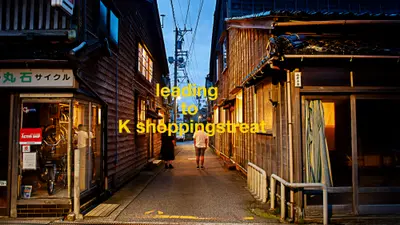
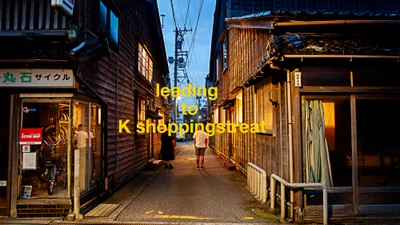
Update project contents

Changed region(s): [[0.66, 0.2178, 0.69, 0.2489]]

diff --git a/project.html b/project.html
@@ -873,10 +873,10 @@
         <div class="project-intro">
             <div class="intro-item">
                 <div class="intro-image">
-                    <picture><source srcset="images/_responsive/02project/project1/00_2025_streetview_webinfo-400.webp 400w, images/_responsive/02project/project1/00_2025_streetview_webinfo-960.webp 960w" type="image/webp"><img src="images/02project/project1/00_2025_streetview_webinfo.webp" srcset="images/_responsive/02project/project1/00_2025_streetview_webinfo-400.webp 400w, images/_responsive/02project/project1/00_2025_streetview_webinfo-960.webp 960w" sizes="(max-width: 768px) 100vw, (max-width: 1200px) 500px, 400px" alt="An alley to K Market Street" loading="lazy" decoding="async"></picture>
+                    <picture><source srcset="images/_responsive/02project/project1/00_2025_streetview_webinfo-400.webp 400w, images/_responsive/02project/project1/00_2025_streetview_webinfo-960.webp 960w" type="image/webp"><img src="images/02project/project1/00_2025_streetview_webinfo.webp" srcset="images/_responsive/02project/project1/00_2025_streetview_webinfo-400.webp 400w, images/_responsive/02project/project1/00_2025_streetview_webinfo-960.webp 960w" sizes="(max-width: 768px) 100vw, (max-width: 1200px) 500px, 400px" alt="the alley to K-shopping street" loading="lazy" decoding="async"></picture>
                 </div>
                 <div class="intro-content">
-                    <h2 class="intro-title">An alley to K Market Street</h2>
+                    <h2 class="intro-title">the alley to K-shopping street</h2>
                 </div>
                 <div class="image-caption">
                     2020<br>
@@ -904,15 +904,15 @@
         <section class="project-section">
             <div class="project-preview">
                 <div class="project-preview-content">
-                    <h2 class="project-title">An alley to K Market Street</h2>
+                    <h2 class="project-title">the alley to K-shopping street</h2>
                     
                     <div class="project-slider">
                         <div class="project-slides">
                             <div class="project-slide active">
-                                <picture><source srcset="images/_responsive/02project/project1/00_2025_streetview_webinfo-400.webp 400w, images/_responsive/02project/project1/00_2025_streetview_webinfo-960.webp 960w, images/_responsive/02project/project1/00_2025_streetview_webinfo-1600.webp 1600w" type="image/webp"><img src="images/02project/project1/00_2025_streetview_webinfo.webp" srcset="images/_responsive/02project/project1/00_2025_streetview_webinfo-400.webp 400w, images/_responsive/02project/project1/00_2025_streetview_webinfo-960.webp 960w, images/_responsive/02project/project1/00_2025_streetview_webinfo-1600.webp 1600w" sizes="(max-width: 768px) 100vw, (max-width: 1200px) 960px, 1600px" alt="Project Image 1" loading="lazy" decoding="async"></picture>
+                                <picture><source srcset="images/_responsive/02installation/02_038_leading_to_K_shoppingstreat_KANAZAWA/2543_basic_16x9_IMG_8254-400.webp 400w, images/_responsive/02installation/02_038_leading_to_K_shoppingstreat_KANAZAWA/2543_basic_16x9_IMG_8254-960.webp 960w, images/_responsive/02installation/02_038_leading_to_K_shoppingstreat_KANAZAWA/2543_basic_16x9_IMG_8254-1600.webp 1600w" type="image/webp"><img src="images/02installation/02_038_leading_to_K_shoppingstreat_KANAZAWA/2543_basic_16x9_IMG_8254.webp" srcset="images/_responsive/02installation/02_038_leading_to_K_shoppingstreat_KANAZAWA/2543_basic_16x9_IMG_8254-400.webp 400w, images/_responsive/02installation/02_038_leading_to_K_shoppingstreat_KANAZAWA/2543_basic_16x9_IMG_8254-960.webp 960w, images/_responsive/02installation/02_038_leading_to_K_shoppingstreat_KANAZAWA/2543_basic_16x9_IMG_8254-1600.webp 1600w" sizes="(max-width: 768px) 100vw, (max-width: 1200px) 960px, 1600px" alt="Project Image 1" loading="lazy" decoding="async"></picture>
                             </div>
                             <div class="project-slide">
-                                <picture><source srcset="images/_responsive/02project/project1/01_2523_webpic_IMG_8254-400.webp 400w, images/_responsive/02project/project1/01_2523_webpic_IMG_8254-960.webp 960w, images/_responsive/02project/project1/01_2523_webpic_IMG_8254-1600.webp 1600w" type="image/webp"><img src="images/02project/project1/01_2523_webpic_IMG_8254.webp" srcset="images/_responsive/02project/project1/01_2523_webpic_IMG_8254-400.webp 400w, images/_responsive/02project/project1/01_2523_webpic_IMG_8254-960.webp 960w, images/_responsive/02project/project1/01_2523_webpic_IMG_8254-1600.webp 1600w" sizes="(max-width: 768px) 100vw, (max-width: 1200px) 960px, 1600px" alt="Project Image 2" loading="lazy" decoding="async"></picture>
+                                <picture><source srcset="images/_responsive/02project/project1/00_2025_streetview_webinfo-400.webp 400w, images/_responsive/02project/project1/00_2025_streetview_webinfo-960.webp 960w, images/_responsive/02project/project1/00_2025_streetview_webinfo-1600.webp 1600w" type="image/webp"><img src="images/02project/project1/00_2025_streetview_webinfo.webp" srcset="images/_responsive/02project/project1/00_2025_streetview_webinfo-400.webp 400w, images/_responsive/02project/project1/00_2025_streetview_webinfo-960.webp 960w, images/_responsive/02project/project1/00_2025_streetview_webinfo-1600.webp 1600w" sizes="(max-width: 768px) 100vw, (max-width: 1200px) 960px, 1600px" alt="Project Image 2" loading="lazy" decoding="async"></picture>
                             </div>
                             
                         </div>

diff --git a/installation/leading-to-k-shoppingstreat-kanazawa.html b/installation/leading-to-k-shoppingstreat-kanazawa.html
@@ -1,7 +1,7 @@
 <!DOCTYPE html><html lang="en"><head>
     <meta charset="UTF-8">
     <meta name="viewport" content="width=device-width, initial-scale=1.0">
-    <title>leading to K shoppingstreat - KIYOMI+TETSUHIRO UOZUMI</title>
+    <title>the alley to K-shopping street - KIYOMI+TETSUHIRO UOZUMI</title>
     <link rel="stylesheet" href="../css/style.css">
     <link rel="stylesheet" href="../css/lightbox-fix.css">
 <style>
@@ -413,14 +413,14 @@
 
     <!-- Main Content -->
     <div class="project-header">
-            <picture><source srcset="../images/_responsive/02installation/02_038_leading_to_K_shoppingstreat_KANAZAWA/00_2540_basic_16x9_IMG_8254-400.webp 400w, ../images/_responsive/02installation/02_038_leading_to_K_shoppingstreat_KANAZAWA/00_2540_basic_16x9_IMG_8254-960.webp 960w" type="image/webp"><img src="../images/02installation/02_038_leading_to_K_shoppingstreat_KANAZAWA/00_2540_basic_16x9_IMG_8254.webp" srcset="../images/_responsive/02installation/02_038_leading_to_K_shoppingstreat_KANAZAWA/00_2540_basic_16x9_IMG_8254-400.webp 400w, ../images/_responsive/02installation/02_038_leading_to_K_shoppingstreat_KANAZAWA/00_2540_basic_16x9_IMG_8254-960.webp 960w" sizes="(max-width: 768px) 100vw, 100vw" alt="leading to K shoppingstreat kanazawa" loading="lazy" decoding="async"></picture>
+            <picture><source srcset="../images/_responsive/02installation/02_038_leading_to_K_shoppingstreat_KANAZAWA/2543_basic_16x9_IMG_8254-400.webp 400w, ../images/_responsive/02installation/02_038_leading_to_K_shoppingstreat_KANAZAWA/2543_basic_16x9_IMG_8254-960.webp 960w, ../images/_responsive/02installation/02_038_leading_to_K_shoppingstreat_KANAZAWA/2543_basic_16x9_IMG_8254-1600.webp 1600w" type="image/webp"><img src="../images/02installation/02_038_leading_to_K_shoppingstreat_KANAZAWA/2543_basic_16x9_IMG_8254.webp" srcset="../images/_responsive/02installation/02_038_leading_to_K_shoppingstreat_KANAZAWA/2543_basic_16x9_IMG_8254-400.webp 400w, ../images/_responsive/02installation/02_038_leading_to_K_shoppingstreat_KANAZAWA/2543_basic_16x9_IMG_8254-960.webp 960w, ../images/_responsive/02installation/02_038_leading_to_K_shoppingstreat_KANAZAWA/2543_basic_16x9_IMG_8254-1600.webp 1600w" sizes="(max-width: 768px) 100vw, 100vw" alt="the alley to K-shopping street kanazawa" loading="lazy" decoding="async"></picture>
         </div>
 
     <main>
         
         <div class="project-content">
             <div class="project-info">
-                <h1 class="project-title">leading to K shoppingstreat</h1>
+                <h1 class="project-title">the alley to K-shopping street</h1>
                 <div class="project-info">
                     <p class="project-year">2020</p>
                     <p class="project-location">KANAIWA ONO ART PROJECT, Artist in Residence, 21st Century Museum of Contemporary Art, Kanazawa JAPAN</p>
@@ -446,7 +446,7 @@ Through the interplay of light, shadow, and projection, the installation creates
 
                 <div class="gallery-grid">
                     <div class="gallery-item">
-                        <picture><source srcset="../images/_responsive/02installation/02_038_leading_to_K_shoppingstreat_KANAZAWA/00_2540_basic_16x9_IMG_8254-400.webp 400w, ../images/_responsive/02installation/02_038_leading_to_K_shoppingstreat_KANAZAWA/00_2540_basic_16x9_IMG_8254-960.webp 960w" type="image/webp"><img src="../images/02installation/02_038_leading_to_K_shoppingstreat_KANAZAWA/00_2540_basic_16x9_IMG_8254.webp" srcset="../images/_responsive/02installation/02_038_leading_to_K_shoppingstreat_KANAZAWA/00_2540_basic_16x9_IMG_8254-400.webp 400w, ../images/_responsive/02installation/02_038_leading_to_K_shoppingstreat_KANAZAWA/00_2540_basic_16x9_IMG_8254-960.webp 960w" sizes="(max-width: 768px) 100vw, (max-width: 1200px) 33vw, 250px" alt="leading to K shoppingstreat kanazawa detail" loading="lazy" fetchpriority="high" decoding="async" style="cursor:pointer"></picture>
+                        <picture><source srcset="../images/_responsive/02installation/02_038_leading_to_K_shoppingstreat_KANAZAWA/2543_basic_16x9_IMG_8254-400.webp 400w, ../images/_responsive/02installation/02_038_leading_to_K_shoppingstreat_KANAZAWA/2543_basic_16x9_IMG_8254-960.webp 960w" type="image/webp"><img src="../images/02installation/02_038_leading_to_K_shoppingstreat_KANAZAWA/2543_basic_16x9_IMG_8254.webp" srcset="../images/_responsive/02installation/02_038_leading_to_K_shoppingstreat_KANAZAWA/2543_basic_16x9_IMG_8254-400.webp 400w, ../images/_responsive/02installation/02_038_leading_to_K_shoppingstreat_KANAZAWA/2543_basic_16x9_IMG_8254-960.webp 960w" sizes="(max-width: 768px) 100vw, (max-width: 1200px) 33vw, 250px" alt="the alley to K-shopping street kanazawa detail" loading="lazy" fetchpriority="high" decoding="async" style="cursor:pointer"></picture>
                     </div>
                 </div>
             </div>
@@ -487,7 +487,7 @@ Through the interplay of light, shadow, and projection, the installation creates
     
     <script>
         const images = [
-            "../images/02installation/02_038_leading_to_K_shoppingstreat_KANAZAWA/00_2540_basic_16x9_IMG_8254.webp"
+            "../images/02installation/02_038_leading_to_K_shoppingstreat_KANAZAWA/2543_basic_16x9_IMG_8254.webp"
         ];
 
                 let currentImageIndex = 0;

diff --git a/installation/chasing-a-little-past-kanazawa.html b/installation/chasing-a-little-past-kanazawa.html
@@ -936,7 +936,7 @@
 
                 <div class="gallery-grid">
                     <div class="gallery-item">
-                        <picture><source srcset="../images/_responsive/02installation/02_036_chasing_a_little_past_KANAZAWA/00_2540_basic_16x9_18EA_kioku_MG_8228_installation_000-400.webp 400w, ../images/_responsive/02installation/02_036_chasing_a_little_past_KANAZAWA/00_2540_basic_16x9_18EA_kioku_MG_8228_installation_000-960.webp 960w" type="image/webp"><img src="../images/02installation/02_036_chasing_a_little_past_KANAZAWA/00_2540_basic_16x9_18EA_kioku_MG_8228_installation_000.webp" srcset="../images/_responsive/02installation/02_036_chasing_a_little_past_KANAZAWA/00_2540_basic_16x9_18EA_kioku_MG_8228_installation_000-400.webp 400w, ../images/_responsive/02installation/02_036_chasing_a_little_past_KANAZAWA/00_2540_basic_16x9_18EA_kioku_MG_8228_installation_000-960.webp 960w" sizes="(max-width: 768px) 100vw, (max-width: 1200px) 33vw, 250px" alt="chasing little pasts kanazawa detail" loading="lazy" fetchpriority="high" decoding="async" style="cursor:pointer"></picture>
+                        <picture><source srcset="../images/_responsive/02installation/02_036_chasing_a_little_past_KANAZAWA/2540_basic_18EA_kioku_MG_8228_installation_000-400.webp 400w, ../images/_responsive/02installation/02_036_chasing_a_little_past_KANAZAWA/2540_basic_18EA_kioku_MG_8228_installation_000-960.webp 960w" type="image/webp"><img src="../images/02installation/02_036_chasing_a_little_past_KANAZAWA/2540_basic_18EA_kioku_MG_8228_installation_000.webp" srcset="../images/_responsive/02installation/02_036_chasing_a_little_past_KANAZAWA/2540_basic_18EA_kioku_MG_8228_installation_000-400.webp 400w, ../images/_responsive/02installation/02_036_chasing_a_little_past_KANAZAWA/2540_basic_18EA_kioku_MG_8228_installation_000-960.webp 960w" sizes="(max-width: 768px) 100vw, (max-width: 1200px) 33vw, 250px" alt="chasing little pasts kanazawa detail" loading="lazy" fetchpriority="high" decoding="async" style="cursor:pointer"></picture>
                     </div>
                     <div class="gallery-item">
                         <picture><source srcset="../images/_responsive/02installation/02_036_chasing_a_little_past_KANAZAWA/ipad_18EA_kioku_MG_8221-400.webp 400w, ../images/_responsive/02installation/02_036_chasing_a_little_past_KANAZAWA/ipad_18EA_kioku_MG_8221-960.webp 960w" type="image/webp"><img src="../images/02installation/02_036_chasing_a_little_past_KANAZAWA/ipad_18EA_kioku_MG_8221.webp" srcset="../images/_responsive/02installation/02_036_chasing_a_little_past_KANAZAWA/ipad_18EA_kioku_MG_8221-400.webp 400w, ../images/_responsive/02installation/02_036_chasing_a_little_past_KANAZAWA/ipad_18EA_kioku_MG_8221-960.webp 960w" sizes="(max-width: 768px) 100vw, (max-width: 1200px) 33vw, 250px" alt="chasing little pasts kanazawa detail" loading="lazy" decoding="async" style="cursor:pointer"></picture>
@@ -1024,7 +1024,7 @@
     <script src="../js/other-installations.js"></script>
     <script>
         const images = [
-            "../images/02installation/02_036_chasing_a_little_past_KANAZAWA/00_2540_basic_16x9_18EA_kioku_MG_8228_installation_000.webp",
+            "../images/02installation/02_036_chasing_a_little_past_KANAZAWA/2540_basic_18EA_kioku_MG_8228_installation_000.webp",
             "../images/02installation/02_036_chasing_a_little_past_KANAZAWA/ipad_18EA_kioku_MG_8221.webp",
             "../images/02installation/02_036_chasing_a_little_past_KANAZAWA/ipad_18EA_kioku_MG_8226.webp",
             "../images/02installation/02_036_chasing_a_little_past_KANAZAWA/ipad_18EA_kioku_MG_8228.webp",

diff --git a/installation.html b/installation.html
@@ -434,10 +434,10 @@
                     <!-- 2020 -->
                     <a href="installation/leading-to-k-shoppingstreat-kanazawa.html" class="installation-item">
                         <div class="installation-image">
-                            <picture><source srcset="images/_responsive/02installation/02_038_leading_to_K_shoppingstreat_KANAZAWA/00_2540_basic_16x9_IMG_8254-400.webp 400w, images/_responsive/02installation/02_038_leading_to_K_shoppingstreat_KANAZAWA/00_2540_basic_16x9_IMG_8254-960.webp 960w" type="image/webp"><img src="images/02installation/02_038_leading_to_K_shoppingstreat_KANAZAWA/00_2540_basic_16x9_IMG_8254.webp" srcset="images/_responsive/02installation/02_038_leading_to_K_shoppingstreat_KANAZAWA/00_2540_basic_16x9_IMG_8254-400.webp 400w, images/_responsive/02installation/02_038_leading_to_K_shoppingstreat_KANAZAWA/00_2540_basic_16x9_IMG_8254-960.webp 960w" sizes="(max-width: 768px) 50vw, 500px" alt="leading to K shoppingstreat KANAZAWA" loading="lazy" fetchpriority="high" decoding="async"></picture>
+                            <picture><source srcset="images/_responsive/02installation/02_038_leading_to_K_shoppingstreat_KANAZAWA/2543_basic_16x9_IMG_8254-400.webp 400w, images/_responsive/02installation/02_038_leading_to_K_shoppingstreat_KANAZAWA/2543_basic_16x9_IMG_8254-960.webp 960w" type="image/webp"><img src="images/02installation/02_038_leading_to_K_shoppingstreat_KANAZAWA/2543_basic_16x9_IMG_8254.webp" srcset="images/_responsive/02installation/02_038_leading_to_K_shoppingstreat_KANAZAWA/2543_basic_16x9_IMG_8254-400.webp 400w, images/_responsive/02installation/02_038_leading_to_K_shoppingstreat_KANAZAWA/2543_basic_16x9_IMG_8254-960.webp 960w" sizes="(max-width: 768px) 50vw, 500px" alt="the alley to K-shopping street KANAZAWA" loading="lazy" fetchpriority="high" decoding="async"></picture>
                         </div>
                         <div class="installation-content">
-                            <h2 class="installation-title">leading to K shoppingstreat</h2>
+                            <h2 class="installation-title">the alley to K-shopping street</h2>
                             <p class="installation-year">2020</p>
                             <p class="installation-location">KANAIWA ONO ART PROJECT, Artist in Residence, 21st Century Museum of Contemporary Art, Kanazawa JAPAN</p>
                         </div>

diff --git a/js/installation-data.js b/js/installation-data.js
@@ -10,8 +10,8 @@
 const installationData = [
     {
         id: "leading-to-k-shoppingstreat-kanazawa",
-        title: "leading to K shoppingstreat_KANAZAWA",
-        thumbnail: "../images/02installation/02_038_leading_to_K_shoppingstreat_KANAZAWA/00_2540_basic_16x9_IMG_8254.webp",
+        title: "the alley to K-shopping street_KANAZAWA",
+        thumbnail: "../images/02installation/02_038_leading_to_K_shoppingstreat_KANAZAWA/2543_basic_16x9_IMG_8254.webp",
         year: "2020"
     },
     {
